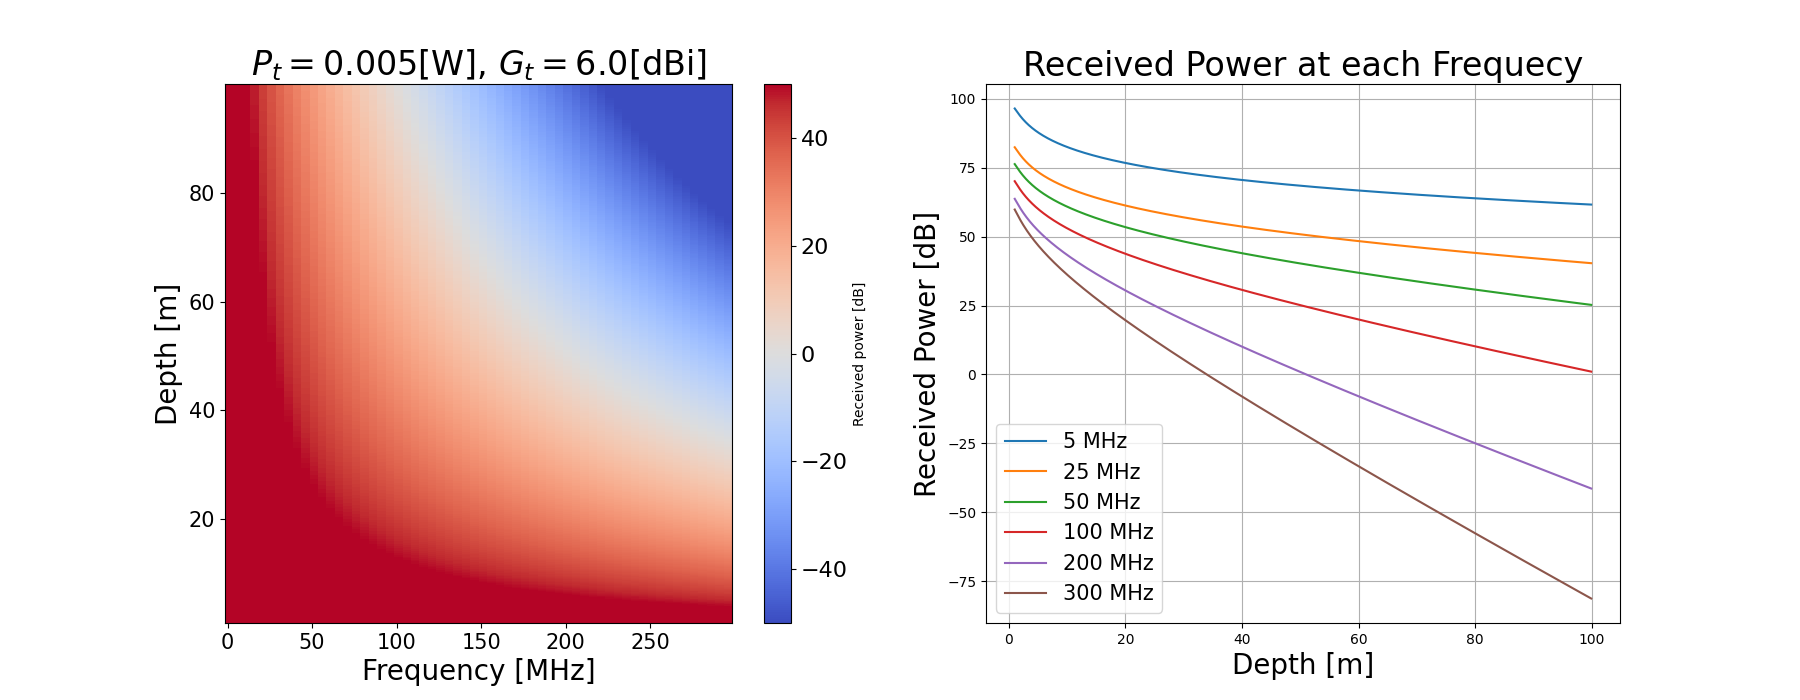
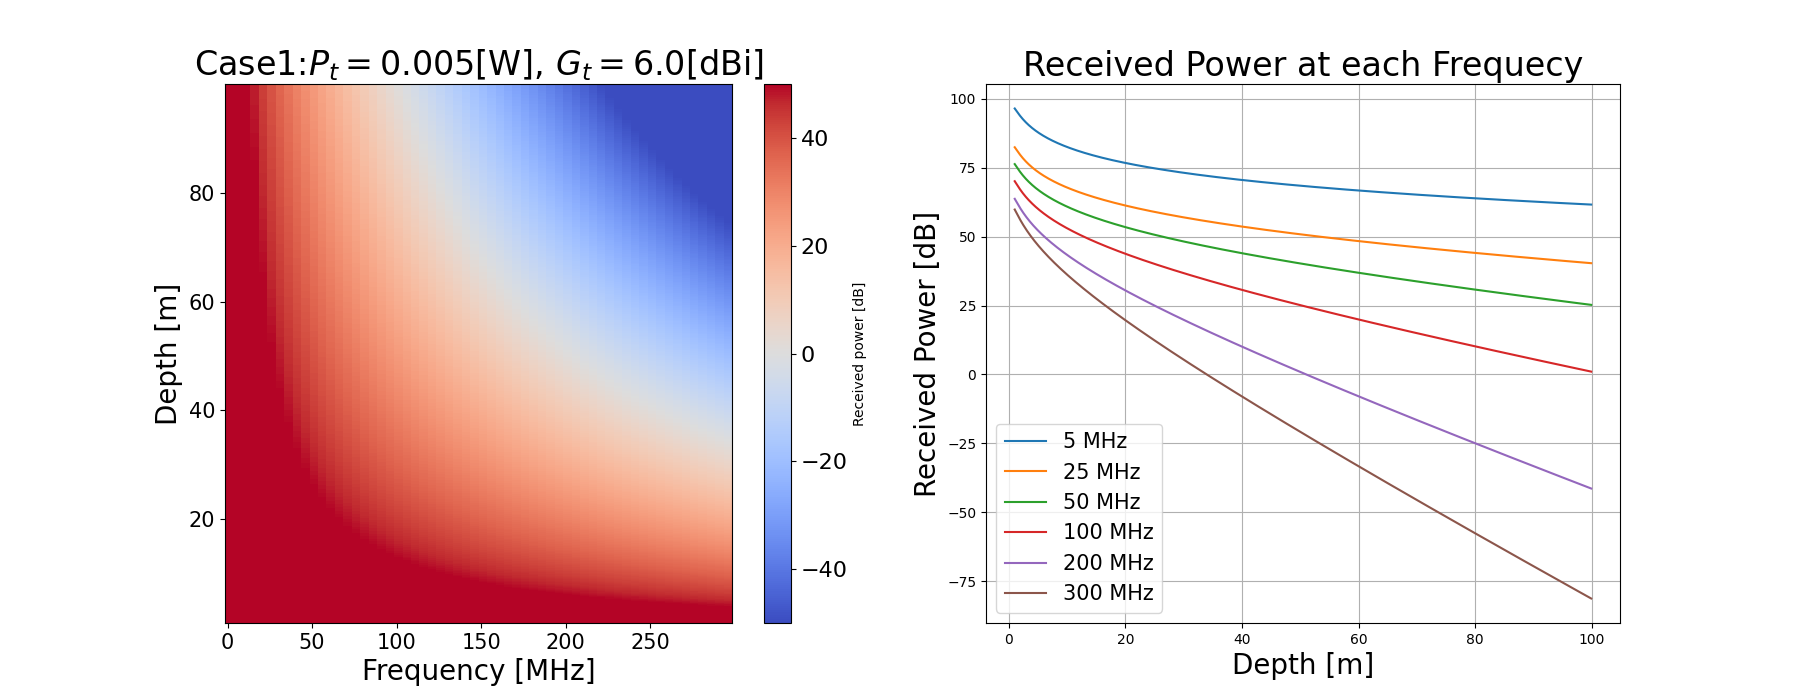
roverプロットタイトル修正

Changed region(s): [[0.0933, 0.06, 0.4356, 0.12]]

diff --git a/recieved_power_dB.py b/recieved_power_dB.py
@@ -139,7 +139,7 @@ def calc_Pr():
     plt.grid()
 
     plt.savefig('output_recieved_power/radar_cross_section.png')
-    plt.show()
+    #plt.show()
     
 
 
@@ -151,7 +151,8 @@ def calc_Pr():
     plt.pcolormesh(f_mesh, R_mesh, Pr_detectability, cmap='coolwarm', shading='auto', norm=Normalize(vmin= -50, vmax=50))
 
     if params_file == 'rover':
-        plt.title(r"$P_t = $" + str(Pt) +'[W], '+  r'$G_t =$' + str(params['antenna_gain']) + '[dBi]', size = 24)
+        plt.title('Case'+ str(params['case_number']) + ':' \
+            r"$P_t = $" + str(Pt) +'[W], '+  r'$G_t =$' + str(params['antenna_gain']) + '[dBi]', size = 24)
     else:
         plt.title(r"$h = $" + str(altitude) +'[km], '+  r'$Noise Level =$' + str(noise_level) + '[W]', size = 24)
     plt.xlabel('Frequency [MHz]', size = 20)
